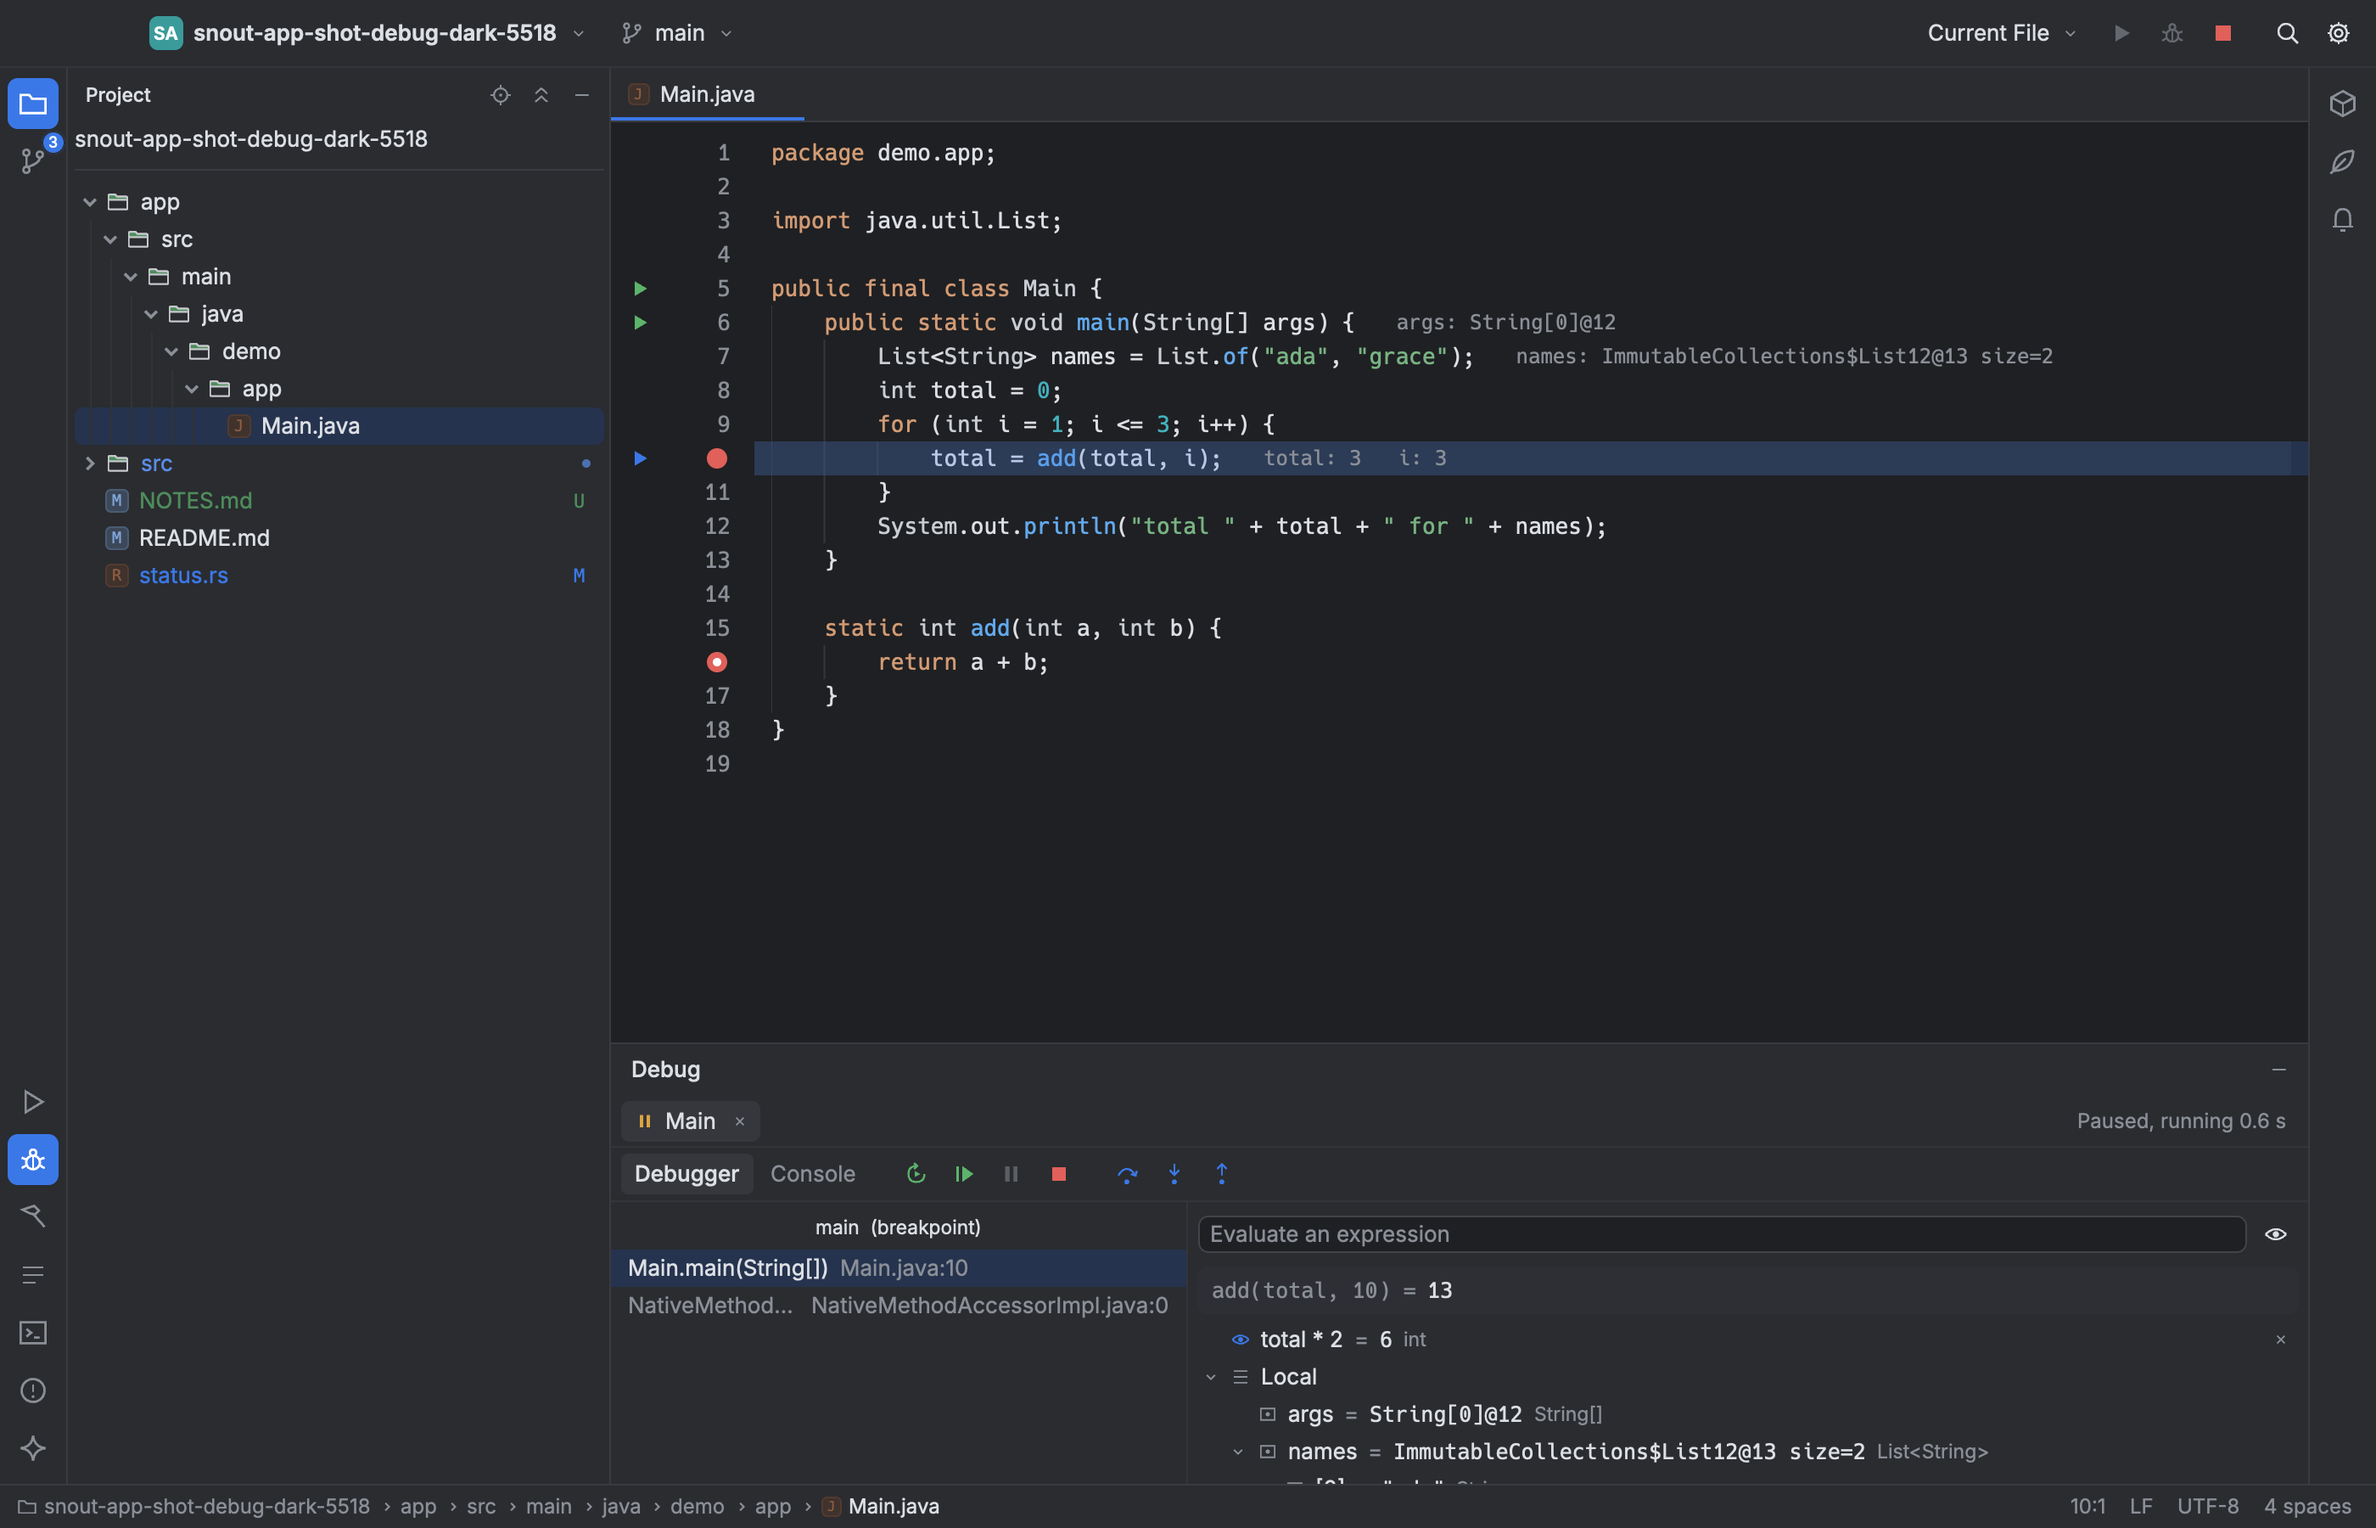
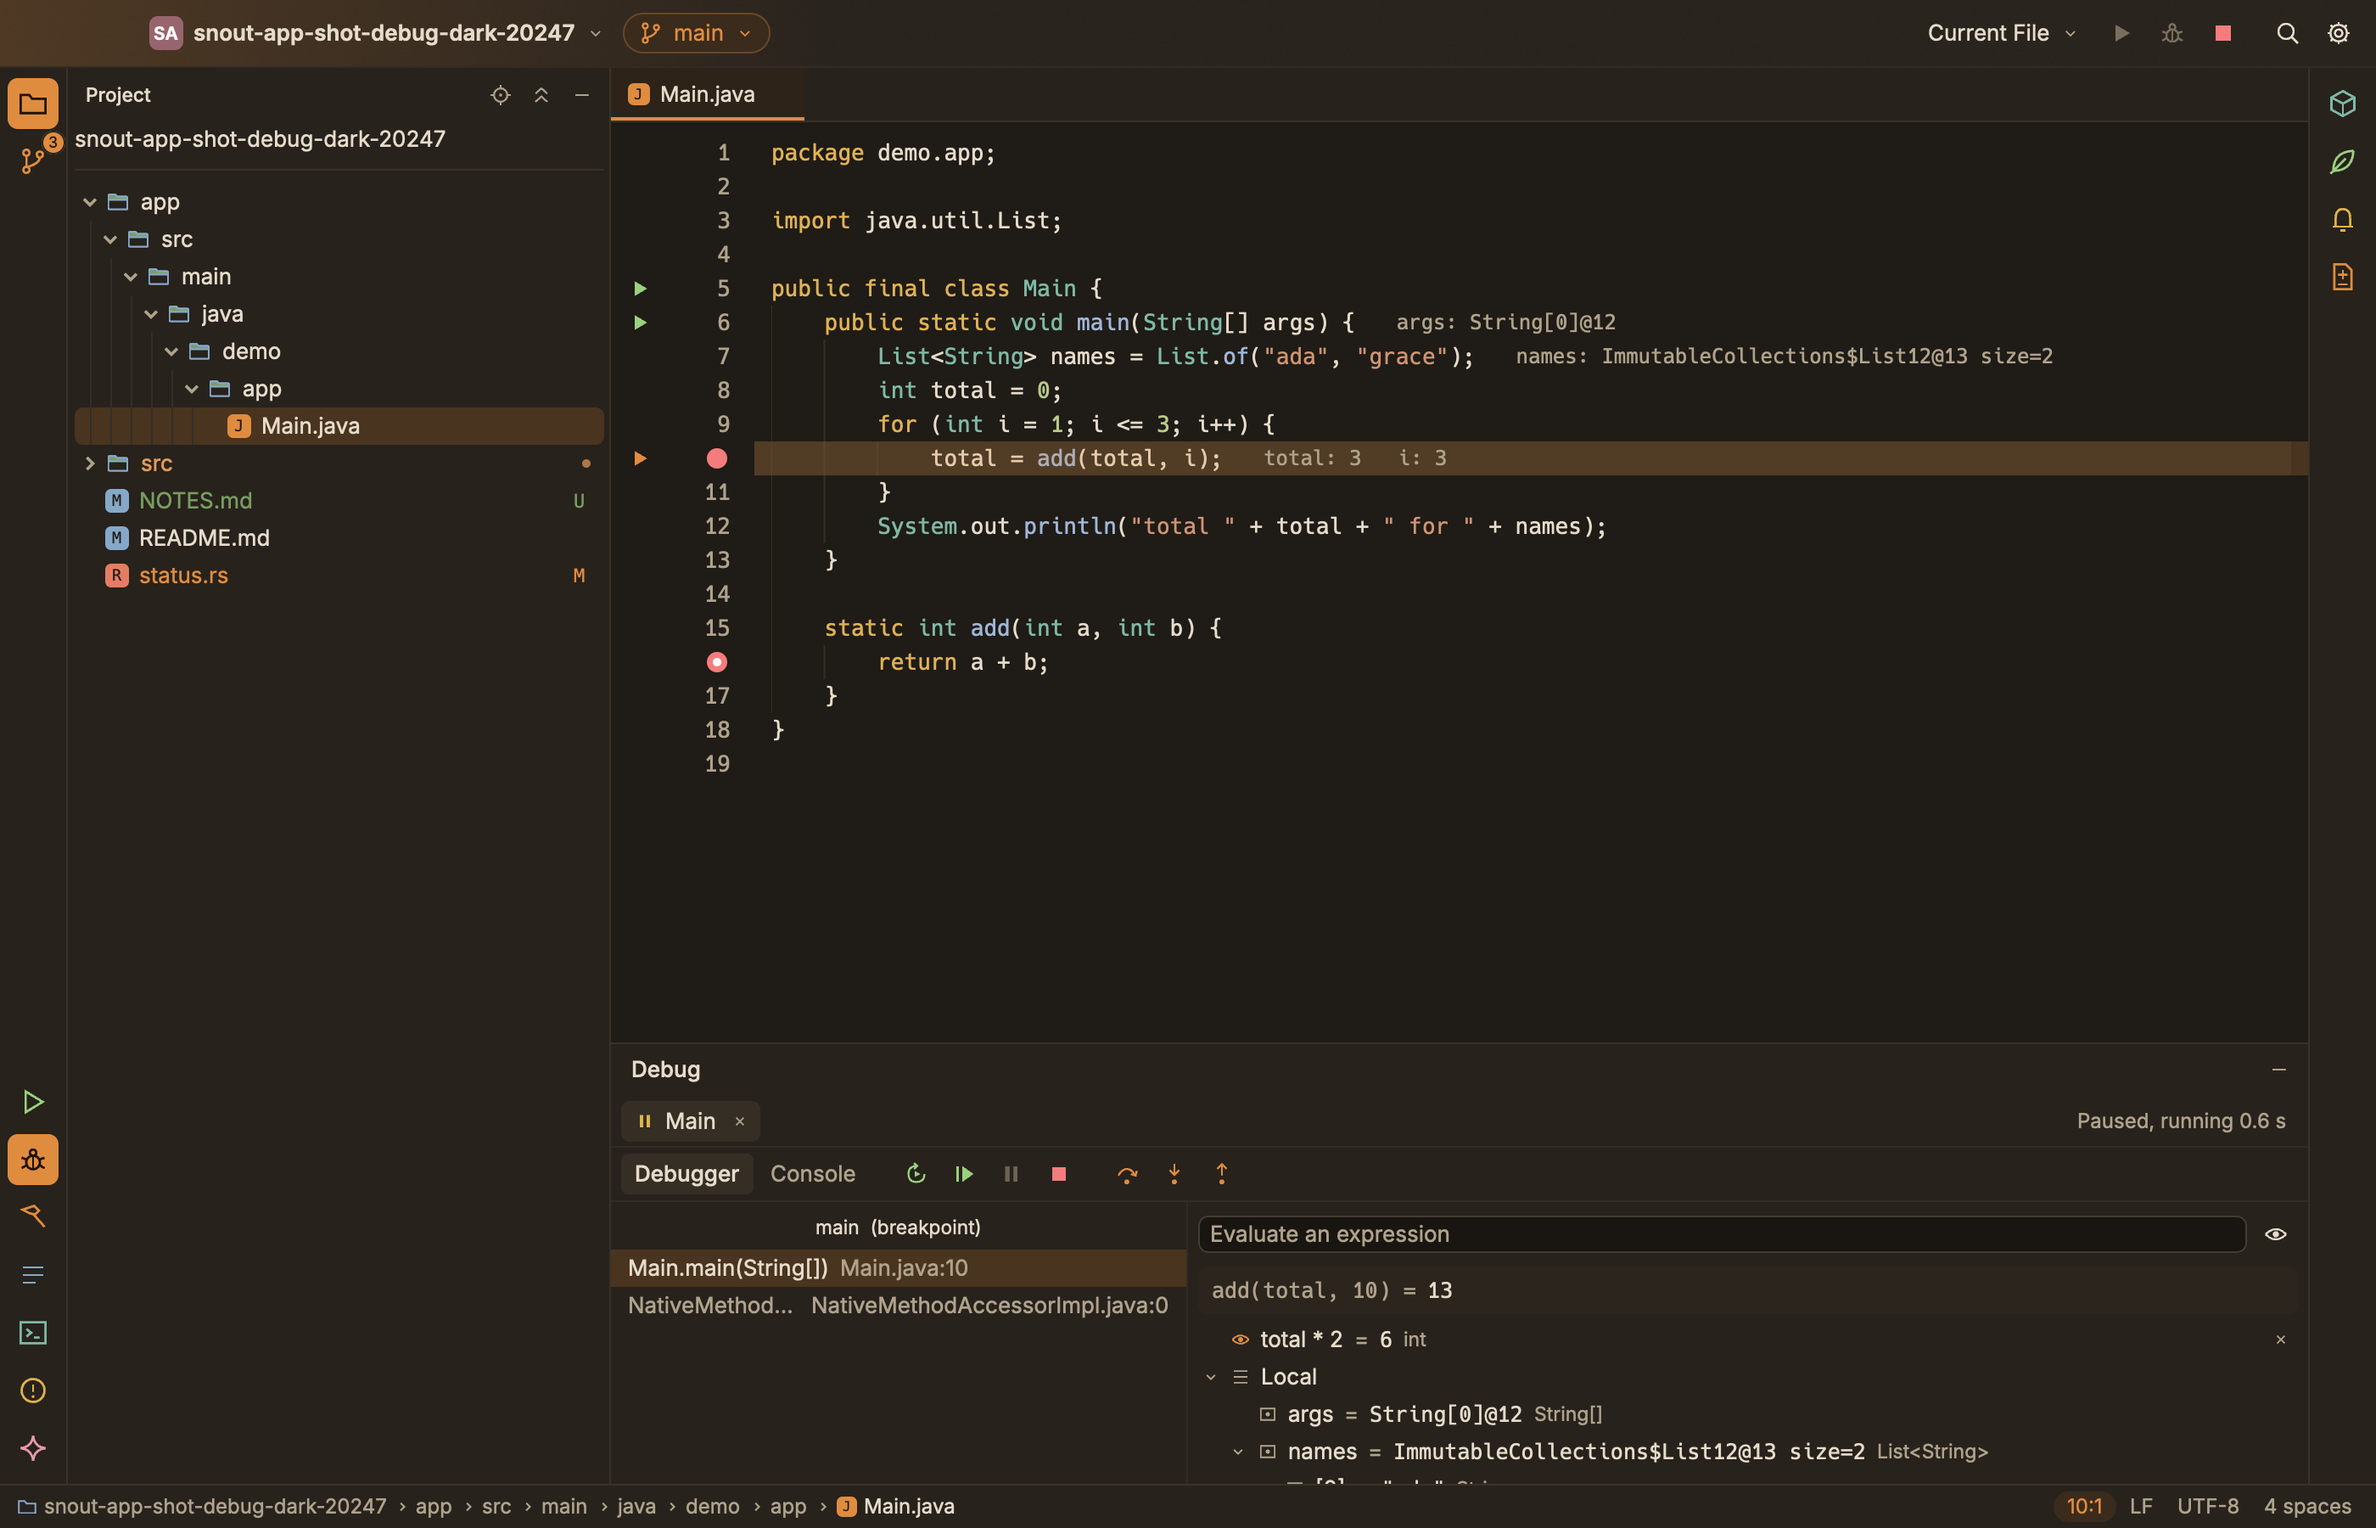
Docs: Appearance's colour themes and System, Light or Dark; blue and orange for Claude's edits; screenshots in Studio
Claude-Session: https://claude.ai/code/session_011ntyApaSsV4iLqKL7rZ4zN

diff --git a/docs/claude-code.md b/docs/claude-code.md
@@ -60,7 +60,7 @@ SnoutCode also passes the console's `claude` extra settings for its hooks, so it
 
 When Claude Code asks before it edits a file, the change opens in that file's tab:
 
-1. The new text types itself into the tab. New lines show in green, and a red rule marks where lines were removed.
+1. The new text types itself into the tab. New lines show in blue, and an orange rule marks where lines were removed.
 2. A bar over the tab says **Claude Code proposes a change** (or **Claude Code proposes a new file**), with the lines added and removed.
 3. Click **Accept** or press ⌘↩ to keep it. Click **Reject** or press Esc to put the text back.
 
@@ -72,7 +72,7 @@ Accept Claude's Change and Reject Claude's Change are also in the command palett
 
 With **Follow** on (the default), the editor follows the files Claude Code changes:
 
-- It opens the file, scrolls to the change and plays it out: the removed text shows struck through in red, the new text types itself in, then a green band fades. Very large edits appear at once instead.
+- It opens the file, scrolls to the change and plays it out: the removed text shows struck through in orange, the new text types itself in, then a blue band fades. Very large edits appear at once instead.
 - It never jumps while you are typing. A file that changes while you are typing, or while another file is in front, gets its turn a moment later.
 - Lines Claude changed keep a mark in the gutter until you review them. Hover the mark for the keys.
 

diff --git a/docs/settings-and-keymap.md b/docs/settings-and-keymap.md
@@ -23,7 +23,21 @@ The sheet edits a copy of your settings:
 
 **Theme**
 
-- **Theme**: Light, Dark, or Match the system. View ▸ Appearance switches it too.
+- **Colors**: the colour theme. Each comes in light and dark, and the swatches show the one
+  in use.
+  - **Studio** (the default): warm cream and walnut, with a terracotta accent in light and
+    an amber one in dark, after Snout Studio.
+  - **Vivid**: neutral greys, a violet accent, and colour wherever it carries meaning.
+  - **Deep**: midnight indigo, with an aqua accent that glows.
+  - **Classic**: the earlier neutral greys and blue accent.
+- **Light or dark**: **System** (the default) follows your Mac, and switches the moment you
+  change it in System Settings ▸ Appearance, or when the Mac changes on its own at sunset.
+  **Light** and **Dark** keep SnoutCode in one, whatever the Mac does. View ▸ Appearance
+  switches it too.
+
+In every theme, text is at least as legible as WCAG AA asks. Lines added and removed show
+in blue and orange, which stay apart with the common forms of colour blindness, and errors
+and warnings differ in lightness as well as colour.
 
 **Interface**
 
